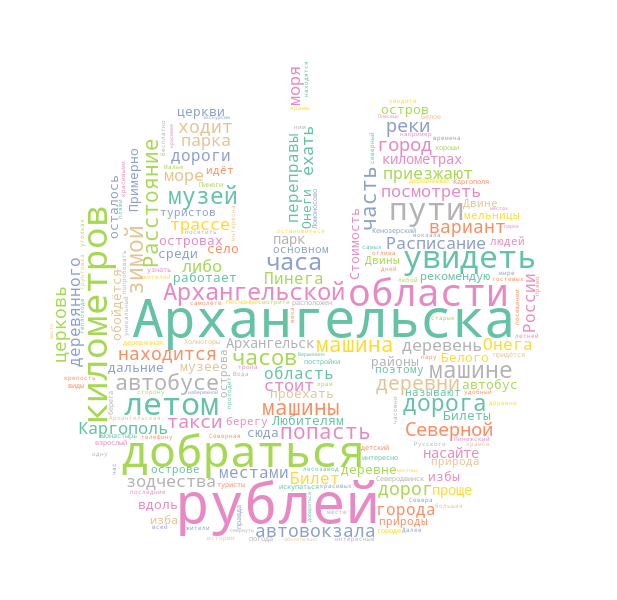
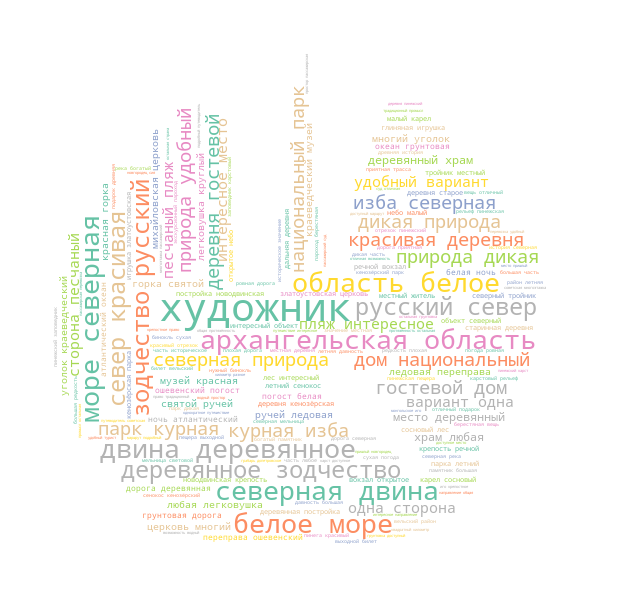
пара исправлений (еще пока берется текст из файлика)

Changed region(s): [[0.0616, 0.09, 0.893, 0.93]]

diff --git a/main.py b/main.py
@@ -12,6 +12,11 @@ from nltk.corpus import stopwords
 from nltk.tokenize import word_tokenize
 import pymorphy3
 
+# test text
+import codecs
+fileObj = codecs.open( "testText.txt", "r", "utf_8_sig" )
+result_string = fileObj.read() # или читайте по строке
+fileObj.close()
 
 result_string = re.sub(r'==.*?==+', '', result_string) # удаляем лишние символы
 result_string = result_string.replace('\n', '') # удаляем знаки разделения на абзацы
@@ -111,13 +116,16 @@ def get_pairs_n(text, n):
     return freq_norm_pairs
 
 n2 = get_pairs_n(result_string, 2)
-print(result_string)
-print(n2.most_common(20))
+# print(result_string)
+# print(n2.most_common(20))
 
-# wordsForCloud = []
-# for pair, freq in n2.most_common(10):
-#   wordsForCloud.append(pair)
-#   print(freq)
+wordsForCloud = []
+for pair, freq in n2.most_common(100):
+  words = ' '.join(pair)
+  wordsForCloud.append(words)
+
+wordsForCloud = ','.join(wordsForCloud)
+print(wordsForCloud)
 
 # Записываем в переменную стоп-слова русского языка
 STOPWORDS_RU = get_stop_words('russian')
@@ -131,9 +139,10 @@ wordcloud = WordCloud(width=2000,
                       random_state=1,
                       background_color='white',
                       colormap='Set2',
-                      collocations=False,
+                      collocation_threshold = 3,
+                    #   collocations=False,
                       stopwords=STOPWORDS_RU,
-                      mask=mask).generate(result_string)
+                      mask=mask).generate(wordsForCloud)
 
 
 # Выводим облако слов в картинку
